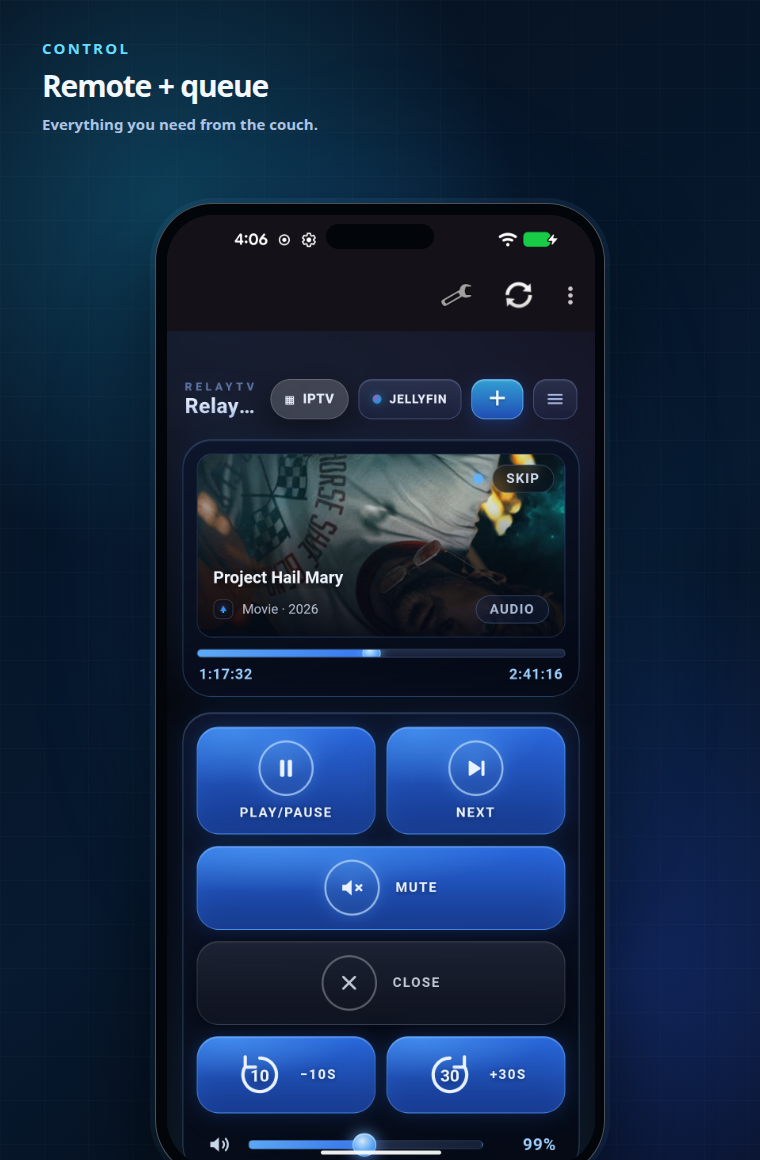
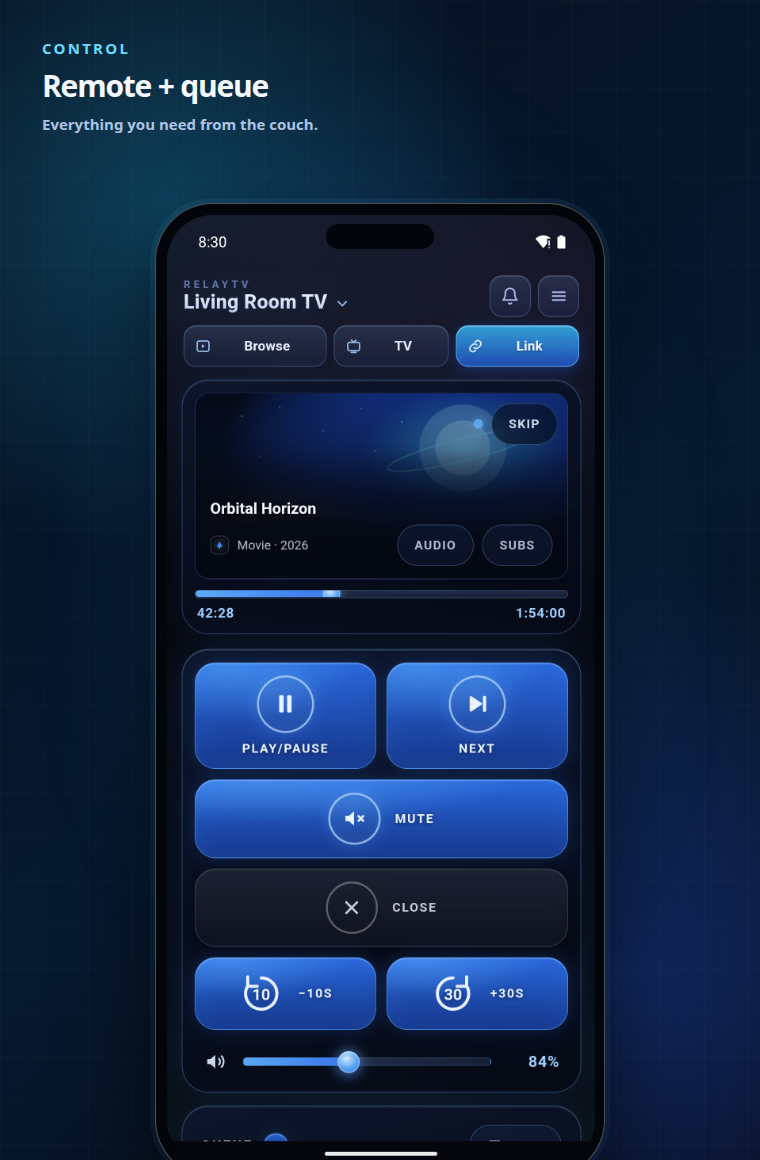
docs: refresh screenshots and release checklist for frameless header and bottom sheet (#19)

Changed region(s): [[0.2118, 0.1862, 0.7868, 1.0]]

diff --git a/docs/RELEASE_CHECKLIST.md b/docs/RELEASE_CHECKLIST.md
@@ -76,10 +76,11 @@ Use this checklist before cutting a public release or uploading a new Play Conso
    - Roam between Wi-Fi networks while playback is active. The previous
      connection must retire, the current network must reconnect, and retained
      state must not be replaced by a late callback.
-7. Confirm the Settings screen opens from the toolbar menu and "Manage servers" opens the server picker.
-8. Confirm a server without `RELAYTV_API_TOKEN` still supports WebView controls, shares, uploads, and media controls.
-9. Confirm a protected server accepts a valid per-server API token and rejects a missing or incorrect token.
-10. Confirm a server without `/realtime/capabilities` uses legacy SSE, keeps
+7. Confirm the Settings screen opens from the web header menu (**App settings**) and from the server picker bottom sheet (**Settings**), and that **Manage servers** opens the server picker bottom sheet.
+8. Confirm the frameless header bridge works with RelayTV server v0.13.0+ (tapping the server title opens the server picker bottom sheet, the header menu includes **Switch server / App settings / Reload / Privacy policy**, and status/nav bar colors follow Auto/Dark/Light theme changes), and confirm the bottom fallback pill appears when offline or connected to an older server without the bridge.
+9. Confirm a server without `RELAYTV_API_TOKEN` still supports WebView controls, shares, uploads, and media controls.
+10. Confirm a protected server accepts a valid per-server API token and rejects a missing or incorrect token.
+11. Confirm a server without `/realtime/capabilities` uses legacy SSE, keeps
     command confirmation polling after media-key actions, and discovers
     WebSocket without an app restart after the server is upgraded.
 
